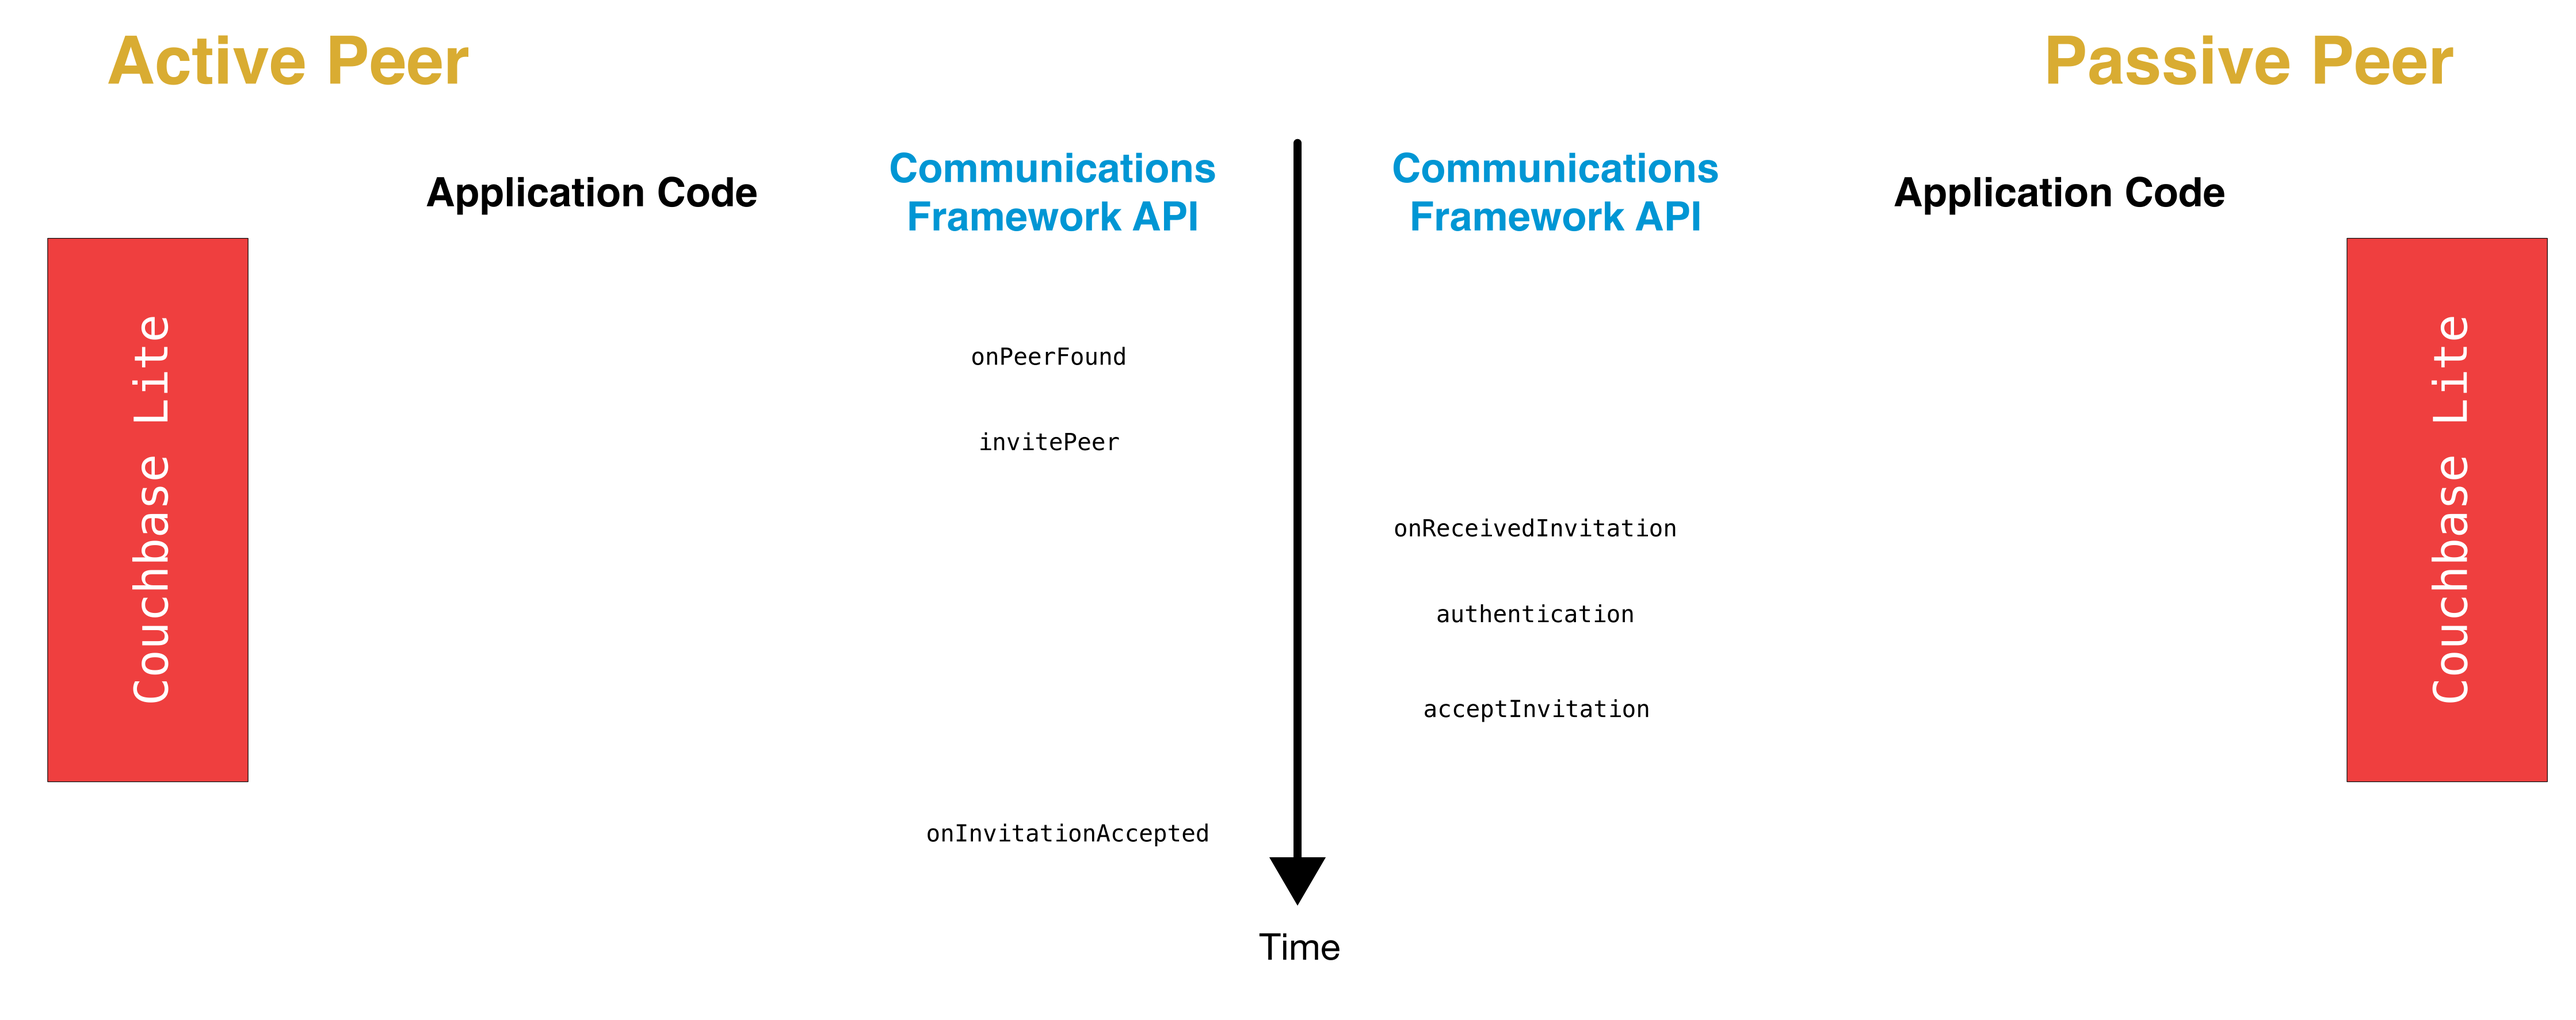
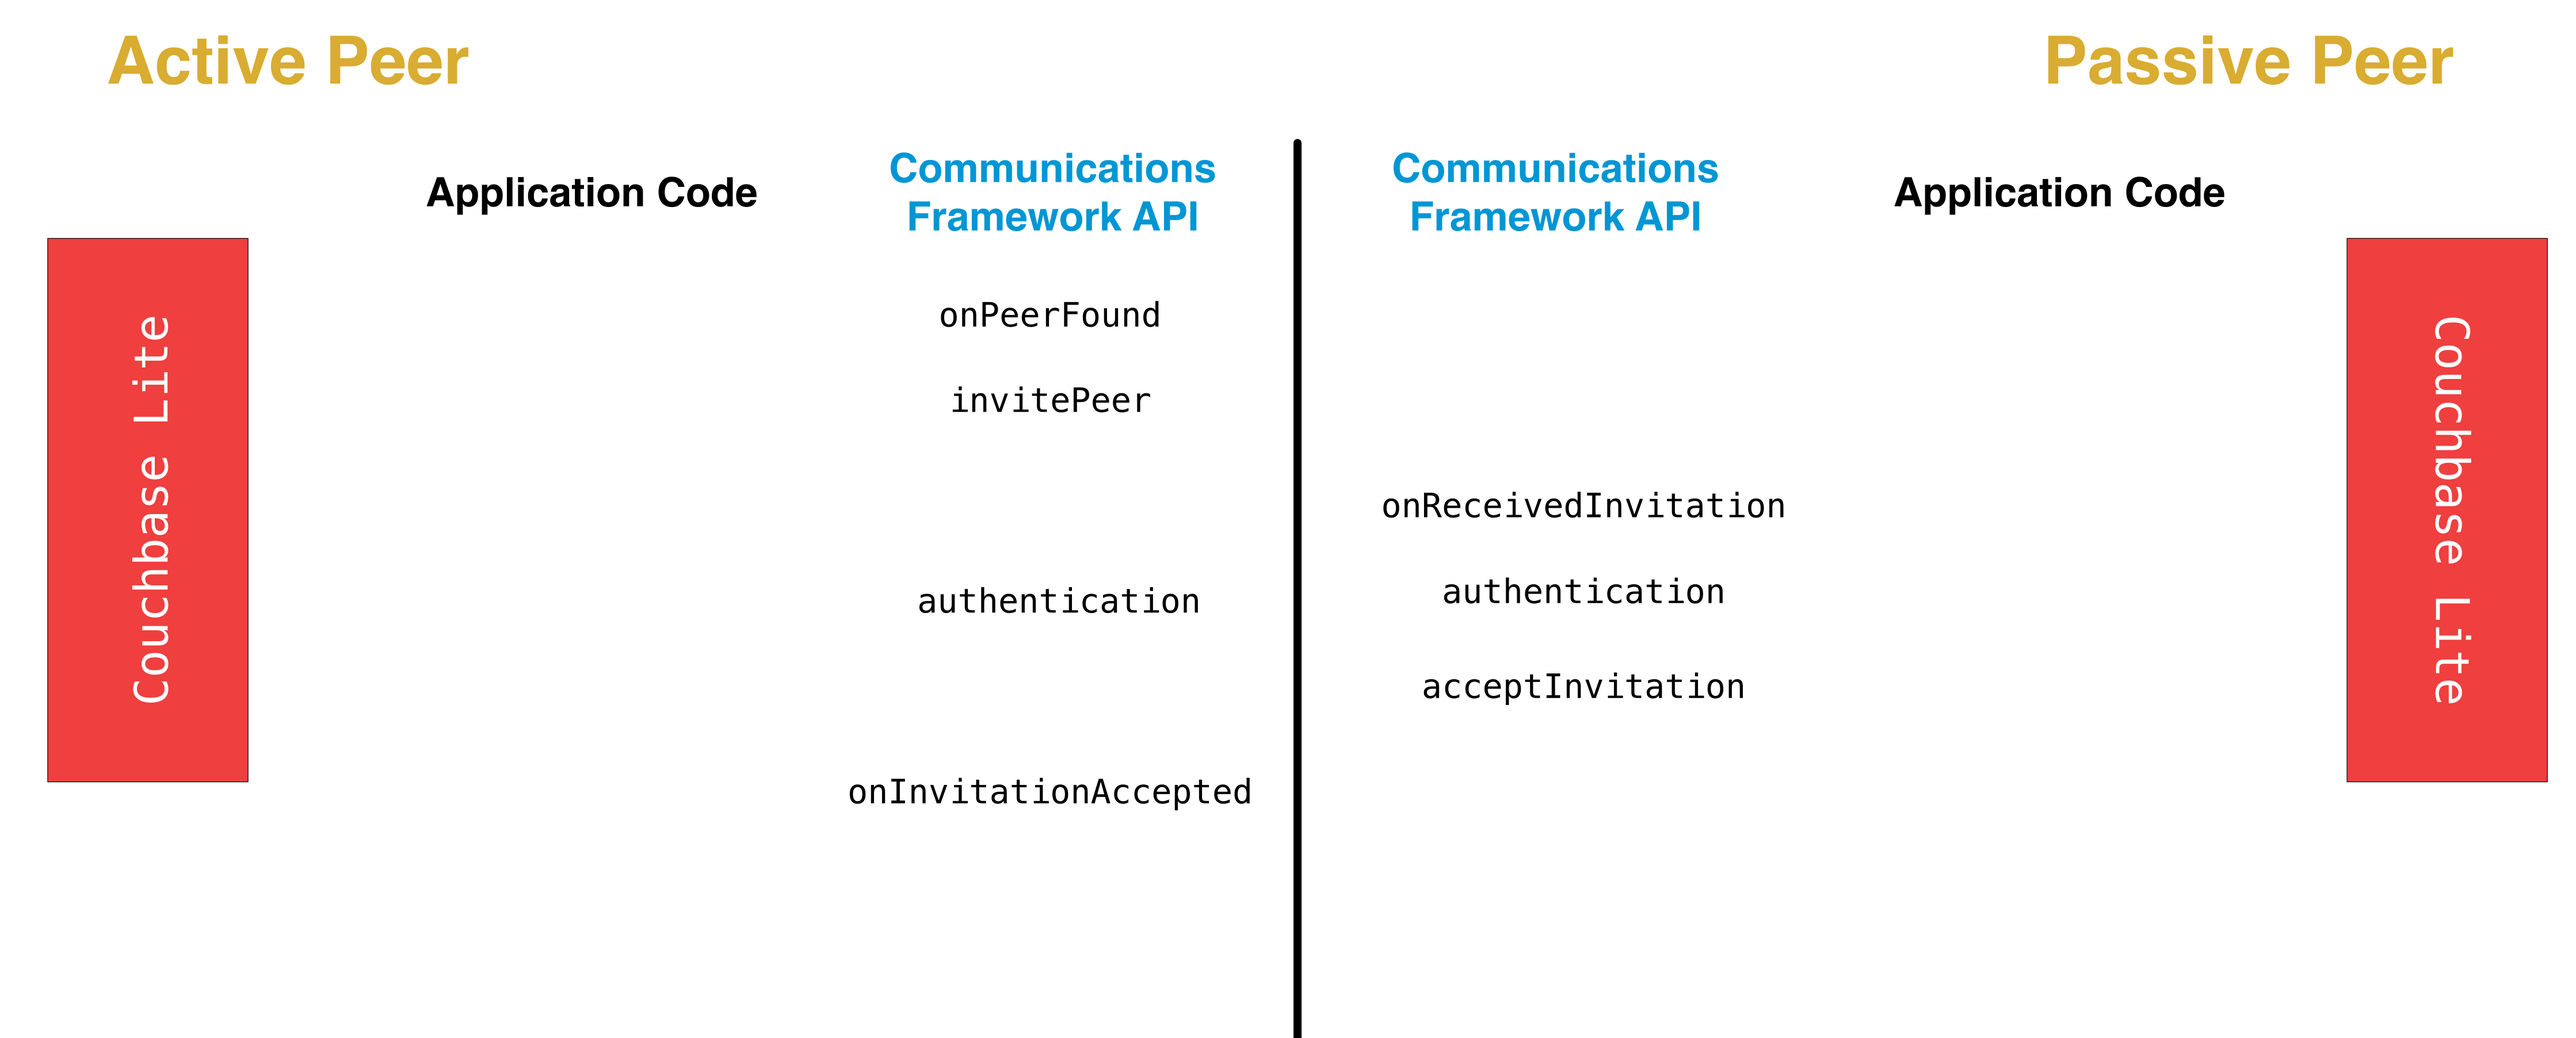
update content

diff --git a/modules/ROOT/examples/swift/SampleCodeTest.swift b/modules/ROOT/examples/swift/SampleCodeTest.swift
@@ -19,6 +19,7 @@
 
 import XCTest
 import CouchbaseLiteSwift
+import MultipeerConnectivity
 
 
 class SampleCodeTest: CBLTestCase {
@@ -713,20 +714,19 @@ class SampleCodeTest: CBLTestCase {
 /* ----------------------------------------------------------- */
 /* ---------------------  ACTIVE SIDE  ---------------------- */
 /* ----------------------------------------------------------- */
-
-// # tag::message-endpoint-delegate[]
-var connectionManager: ConnectionManager?
-
 // Class to configure replicator and initiate a connection with the remote peer.
-class MessageEndpointManager: MessageEndpointDelegate {
+class BrowserSessionManager: MessageEndpointDelegate {
     
     init() throws {
-        // # tag::message-endpoint-replicator[]
+        // # tag::message-endpoint[]
         let database = try Database(name: "dbname")
         
         // The delegate must implement the `MessageEndpointDelegate` protocol.
-        let target = MessageEndpoint(uid: "UID:123", target: nil, protocolType: .messageStream, delegate: self)
-        let config = ReplicatorConfiguration(database: database, target: target)
+        let target = MessageEndpoint(uid: "UID:123", target: nil, protocolType: .messageStream, delegate: self) // <1>
+        // # end::message-endpoint[]
+        
+        // # tag::message-endpoint-replicator[]
+        let config = ReplicatorConfiguration(database: database, target: target) // <1>
         
         // Create the replicator object.
         let replicator = Replicator(config: config)
@@ -735,35 +735,42 @@ class MessageEndpointManager: MessageEndpointDelegate {
         // # end::message-endpoint-replicator[]
     }
     
+    // # tag::create-connection[]
     func createConnection(endpoint: MessageEndpoint) -> MessageEndpointConnection { // <1>
-        connectionManager = ConnectionManager()
-        return connectionManager!
+        let connectionManager = ActivePeerConnection()
+        return connectionManager
     }
+    // # end::create-connection[]
 
 }
 // # end::message-endpoint-delegate[]
 
-// # tag::message-endpoint-connection[]
-var replicatorConnection: ReplicatorConnection? // <1>
-
-class ConnectionManager: MessageEndpointConnection {
+class ActivePeerConnection: MessageEndpointConnection {
+    
+    var replicatorConnection: ReplicatorConnection?
     
     init() {}
 
+    // # tag::active-peer-open[]
     func open(connection: ReplicatorConnection, completion: @escaping (Bool, MessagingError?) -> Void) { // <2>
         // ...
         replicatorConnection = connection
         completion(true, nil)
     }
+    // # end::active-peer-open[]
 
+    // # tag::active-peer-send[]
     func send(message: Message, completion: @escaping (Bool, MessagingError?) -> Void) { // <3>
-        // ...
+        /* send the message to the other peer */
         completion(true, nil)
     }
+    // # end::active-peer-send[]
     
     func receive(data: Data) {
+        // # tag::active-peer-receive[]
         let message = Message.fromData(data) // <4>
         replicatorConnection?.receive(messge: message) // <5>
+        // # end::active-peer-receive[]
     }
 
     func close(error: Error?, completion: @escaping () -> Void) { // <6>
@@ -774,22 +781,87 @@ class ConnectionManager: MessageEndpointConnection {
 }
 // # end::message-endpoint-connection[]
 
-// # tag::communications-framework-active-side[]
-class CommunicationsFrameworkActiveSideClass {
-    
-    func receive(data: Data) { // <1>
-        connectionManager?.receive(data: data) // <2>
-    }
-    
-}
-// # end::communications-framework-active-side[]
-
 /* ----------------------------------------------------------- */
 /* ---------------------  PASSIVE SIDE  ---------------------- */
 /* ----------------------------------------------------------- */
 
-// # tag::message-endpoint-listener[]
-var listenerManager: ListenerManager?
+class AdvertizingSessionManager: NSObject, MCSessionDelegate, MCNearbyServiceAdvertiserDelegate {
+    
+    var listener: MessageEndpointListener?
+    
+    func startListener() {
+        // # tag::listener[]
+        let database = try! Database(name: "mydb")
+        let config = MessageEndpointListenerConfiguration(database: database, protocolType: .messageStream)
+        listener = MessageEndpointListener(config: config)
+        // # end::listener[]
+    }
+    
+    func advertiser(_ advertiser: MCNearbyServiceAdvertiser, didReceiveInvitationFromPeer peerID: MCPeerID, withContext context: Data?, invitationHandler: @escaping (Bool, MCSession?) -> Void) {
+        
+    }
+    
+    func session(_ session: MCSession, peer peerID: MCPeerID, didChange state: MCSessionState) {
+        
+        // # tag::advertizer-accept[]
+        /* PassivePeerConnection implements MessageEndpointConnection */
+        let passivePeerConnection = PassivePeerConnection()
+        listener?.accept(connection: passivePeerConnection)
+        // # end::advertizer-accept[]
+    }
+    
+    func session(_ session: MCSession, didReceive data: Data, fromPeer peerID: MCPeerID) {
+        
+    }
+    
+    func session(_ session: MCSession, didReceive stream: InputStream, withName streamName: String, fromPeer peerID: MCPeerID) {
+        
+    }
+    
+    func session(_ session: MCSession, didStartReceivingResourceWithName resourceName: String, fromPeer peerID: MCPeerID, with progress: Progress) {
+        
+    }
+    
+    func session(_ session: MCSession, didFinishReceivingResourceWithName resourceName: String, fromPeer peerID: MCPeerID, at localURL: URL?, withError error: Error?) {
+        
+    }
+    
+}
+
+class PassivePeerConnection: NSObject, MessageEndpointConnection {
+    
+    var replicatorConnection: ReplicatorConnection?
+    
+    override init() {
+        super.init()
+    }
+    
+    // # tag::passive-peer-open[]
+    func open(connection: ReplicatorConnection, completion: @escaping (Bool, MessagingError?) -> Void) {
+        replicatorConnection = connection
+        completion(true, nil)
+    }
+    // # end::passive-peer-open[]
+    
+    // # tag::passive-peer-send[]
+    func send(message: Message, completion: @escaping (Bool, MessagingError?) -> Void) {
+        /* send the message to the other peer */
+        completion(true, nil)
+    }
+    // # end::passive-peer-send[]
+    
+    func receive(data: Data) {
+        // # tag::passive-peer-receive[]
+        let message = Message.fromData(data) // <4>
+        replicatorConnection?.receive(messge: message) // <5>
+        // # end::passive-peer-receive[]
+    }
+    
+    func close(error: Error?, completion: @escaping () -> Void) {
+        
+    }
+    
+}
 
 class ListenerManager {
     
@@ -817,27 +889,4 @@ class ListenerManager {
         
     }
 }
-// # end::message-endpoint-listener[]
-
-// # tag::associating-listener-and-connection[]
-class CommunicationsFrameworkManager {
-    
-    var connectionManager:ConnectionManager? // <1>
-    
-    func onAcceptIncomingConnectionFromPeer() { // <2>
-        connectionManager = ConnectionManager() // <3>
-        listenerManager?.listener.accept(connection: connectionManager!) // <4>
-    }
-}
-// # end::associating-listener-and-connection[]
-
-// # tag::communications-framework-passive-side[]
-class CommunicationsFrameworkPassiveSideClass {
-    
-    func receive(data: Data) { // <1>
-        connectionManager?.receive(data: data) // <2>
-    }
-    
-}
-// # end::communications-framework-passive-side[]
 
